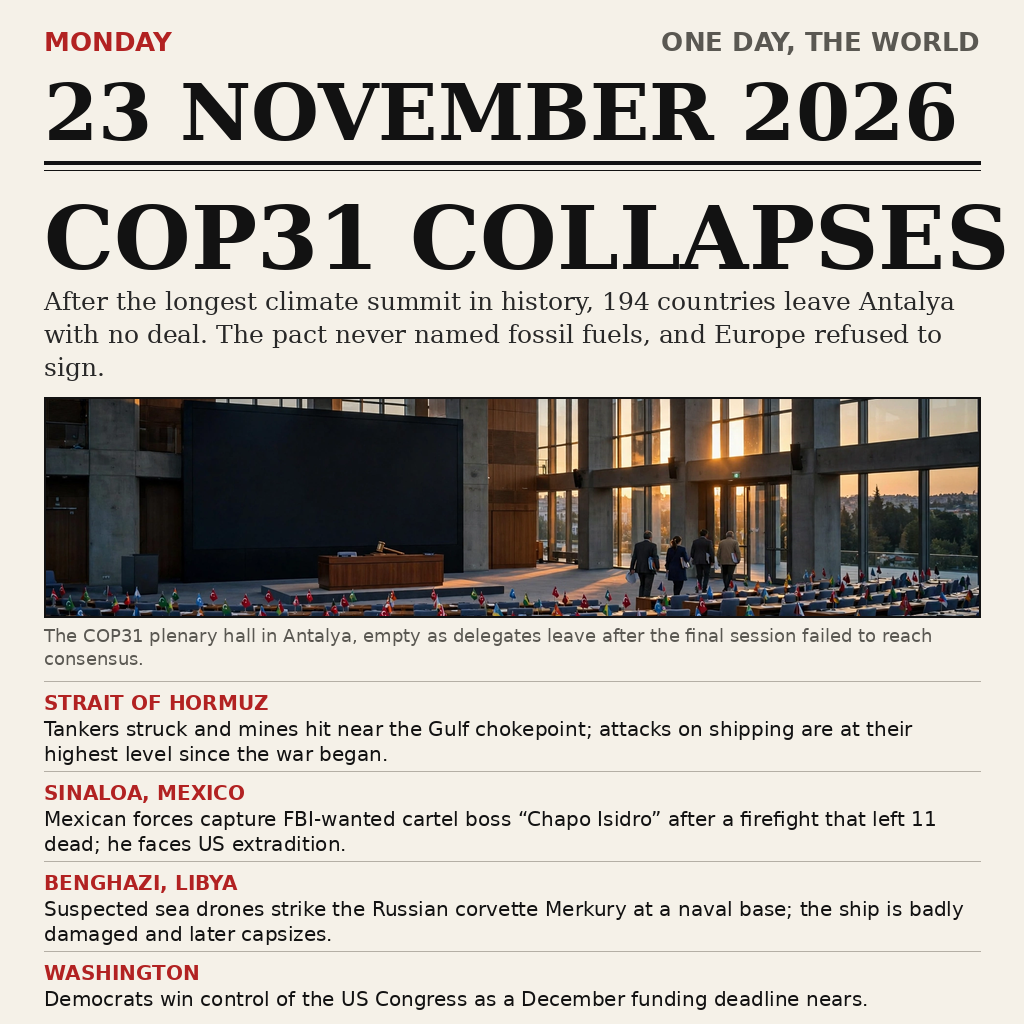
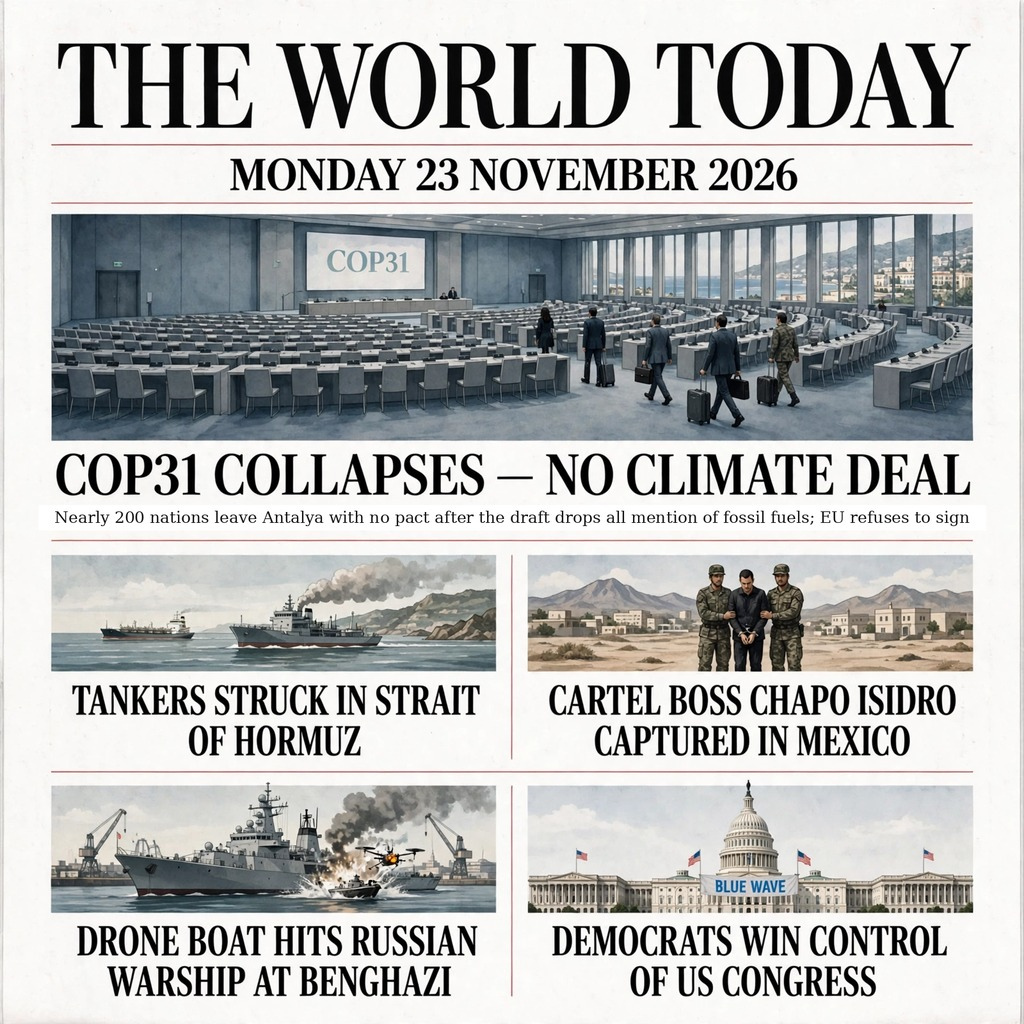
Rebuild entry in-session: new front-page image, main.py, README

diff --git a/main.py b/main.py
@@ -1,0 +1,58 @@
+#!/usr/bin/env python3
+"""news-image-20261123: write the day's front page to /output/entry.png.
+
+The entry image sits next to this file as entry.png. The program copies
+it to the output directory, byte for byte, so both grading runs produce
+identical output. Standard library only, no network.
+
+Local check: mkdir -p out && MAKEFUN_OUTPUT_DIR=out python3 main.py
+"""
+
+import os
+import shutil
+import struct
+
+HERE = os.path.dirname(os.path.abspath(__file__))
+OUT_DIR = os.environ.get("MAKEFUN_OUTPUT_DIR", "/output")
+SOURCE = os.path.join(HERE, "entry.png")
+TARGET = os.path.join(OUT_DIR, "entry.png")
+
+# The competition gate: at most 1 MiB and at most 1024x1024 pixels.
+MAX_BYTES = 1048576
+MAX_SIDE = 1024
+
+
+def _jpeg_size(path: str) -> tuple:
+    """Read width/height out of a JPEG header without any dependency."""
+    with open(path, "rb") as fh:
+        data = fh.read(2)
+        if data != b"\xff\xd8":
+            raise ValueError("entry.png is not a JPEG")
+        while True:
+            marker = fh.read(2)
+            if len(marker) < 2 or marker[0] != 0xFF:
+                raise ValueError("bad JPEG marker")
+            code = marker[1]
+            if code in (0xC0, 0xC1, 0xC2):
+                fh.read(3)
+                raw = fh.read(4)
+                height, width = struct.unpack(">HH", raw)
+                return width, height
+            length = struct.unpack(">H", fh.read(2))[0]
+            fh.seek(length - 2, 1)
+
+
+def main() -> None:
+    os.makedirs(OUT_DIR, exist_ok=True)
+    shutil.copyfile(SOURCE, TARGET)
+    size = os.path.getsize(TARGET)
+    if size > MAX_BYTES:
+        raise SystemExit(f"entry.png is {size} bytes, over the 1 MiB gate")
+    width, height = _jpeg_size(TARGET)
+    if width > MAX_SIDE or height > MAX_SIDE:
+        raise SystemExit(f"entry.png is {width}x{height}, over 1024x1024")
+    print(f"wrote {TARGET}: {width}x{height}, {size} bytes")
+
+
+if __name__ == "__main__":
+    main()

diff --git a/README.md b/README.md
@@ -4,15 +4,23 @@
 [![rank](https://make.fun/badge/news-image-20261123/khaliefk/news-image-20261123/rank.svg)](https://make.fun/bounty/news-image-20261123/leaderboard?utm_source=github&utm_medium=readme&utm_campaign=news-image-20261123)
 [![reward](https://make.fun/badge/news-image-20261123/khaliefk/news-image-20261123/reward.svg)](https://make.fun/bounty/news-image-20261123?utm_source=github&utm_medium=readme&utm_campaign=news-image-20261123)
 
-A newspaper front page for Monday 23 November 2026. The lead story is the COP31 climate summit collapsing in Antalya: after the longest talks in the summit's history, 194 countries went home with no deal because the draft pact never named fossil fuels and Europe refused to sign it. The photo shows the plenary hall empty as delegates walk out. Four shorter stories run underneath: tankers struck near the Strait of Hormuz, the capture of cartel boss "Chapo Isidro" in Sinaloa, a suspected drone strike on a Russian warship at Benghazi, and Democrats winning control of the US Congress.
+A newspaper front page for Monday 23 November 2026. The lead story is the COP31 climate summit in Antalya ending with no deal: after two weeks of talks and two days of overtime, the longest COP on record, nearly 200 nations went home without a pact because the draft text dropped all mention of fossil fuels and the EU refused to sign it. The photo shows the plenary hall emptying as delegates walk out. Four shorter stories run underneath: tankers struck in the Strait of Hormuz, cartel boss "Chapo Isidro" captured in Sinaloa, a suspected drone boat hitting a Russian warship at Benghazi, and Democrats winning control of the US Congress.
+
+## Stories in the image
+
+- COP31 collapses in Antalya, no climate deal — UN News, IPS/Global Issues, BusinessWorld, 23 Nov 2026
+- Two tankers struck in the Strait of Hormuz — UKMTO via TALi News, 23 Nov 2026
+- "Chapo Isidro" captured by Mexican forces in Sinaloa — TALi News, 23 Nov 2026
+- Suspected Ukrainian sea drones hit a Russian warship at Benghazi — The Hindu via Newsmriti, 23 Nov 2026
+- Democrats win control of the US Congress — TALi News, 23 Nov 2026
 
 ## Run it
 
 ```sh
-mkdir -p out && MAKEFUN_OUTPUT_DIR=out node main.ts
+mkdir -p out && MAKEFUN_OUTPUT_DIR=out python3 main.py
 ```
 
-`main.ts` copies `entry.png` to `/output/entry.png`. It needs Node 22, no network, and no dependencies.
+`main.py` copies `entry.png` to `/output/entry.png` and checks the gate itself (at most 1 MiB, at most 1024x1024). It needs Python 3.13, no network, and no dependencies.
 
 ---
 
